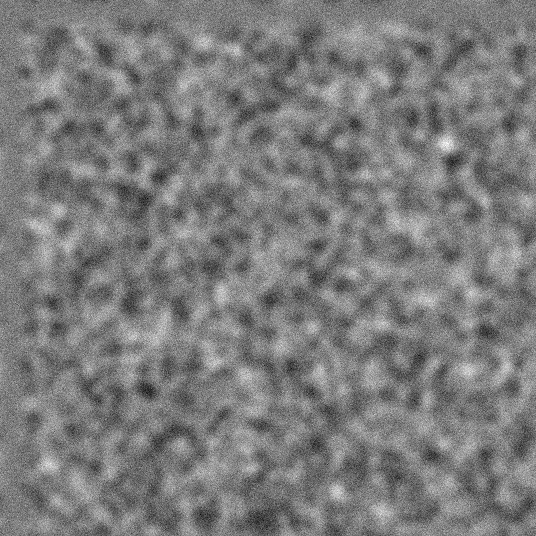
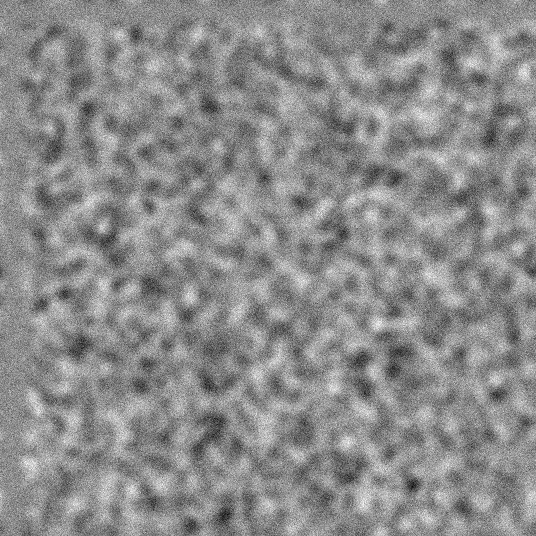
keep valid image function to undo padding

diff --git a/ip_test.py b/ip_test.py
@@ -40,3 +40,8 @@ pp.save_image(yi_scale,'test_images/yi_%.2f.jpg' % lam)
 deg_img = ip.degrade_image(noise_pad,sigma,Nfilt,noise_power)
 deg_scale = pp.scale_images(deg_img,scaling=[0,255],dtype=np.uint8)
 pp.save_image(deg_scale,'test_images/deg_img_%.2f.jpg' % noise_power)
+
+deg_img_valid = ip.keep_valid_image(deg_img,im_size)
+print 'deg_img_valid.shape: ',deg_img_valid.shape
+deg_valid_scale = pp.scale_images(deg_img_valid,scaling=[0,255],dtype=np.uint8)
+pp.save_image(deg_valid_scale,'test_images/deg_img_valid.jpg')

diff --git a/imageProcessing.py b/imageProcessing.py
@@ -90,8 +90,15 @@ def gauss_filter(sigma,N):
 
     return np.outer(h,h)
 
+def keep_valid_image(x,keep_shape):
+    """ Keeps valid portion of filtered image.
 
-
-
-
-
+        inputs:
+            x          -> filterd image
+            keep_shape -> (N1,N2) dimensions of valid image
+                          (should be same as original image)
+        
+        outputs:
+            y -> N1-by-N2 valid image
+    """
+    return x[-keep_shape[0]-1:-1,-keep_shape[1]-1:-1]
